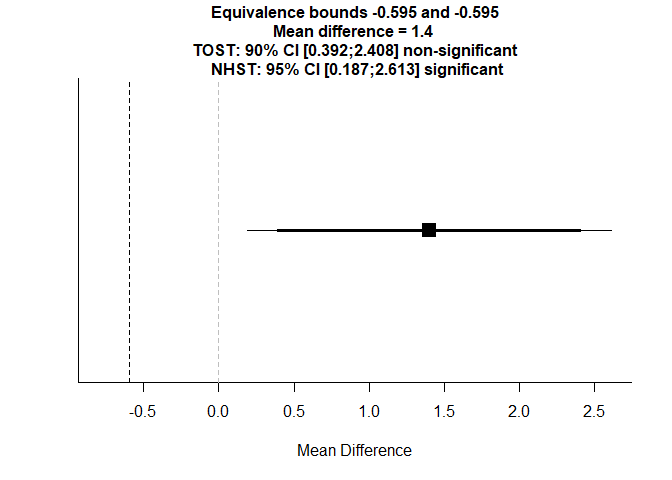
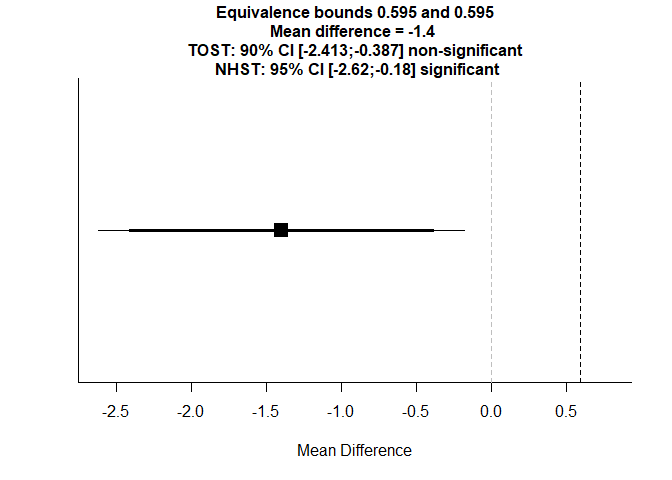
update tutorial 2

diff --git a/Advanced_EH_6126/Unit_2_Equivalance_Trials/Equivalance_trials.html b/Advanced_EH_6126/Unit_2_Equivalance_Trials/Equivalance_trials.html
@@ -433,7 +433,7 @@ $(document).ready(function () {
 <p>Because this effect of 2 is &gt; 1.96 (1.96 being the critical value we used the calculate the p-value if we want alpha = 0.05; see the purple sampling distribution), we would thus “reject the null hypothesis of 0 effect”.</p>
 <p>We can also see that zero falls (just barely) outside of the yellow 95% CI. This means that if we set the null to 2, rather than 0, then we would reject this new null if we actually observed a 0 effect, just like we reject a null of 0 when we observe a 2. One test is just the mirror image of the other. We will use the same idea when we get to equivalence tests below.</p>
 <p>So how should we interpret a CI centered on our observed effect? Many people think that an X% CI says that there is an X% chance that the “true” effect falls in the interval. This is incorrect, and reflects a Bayesian interpretation that is unwarranted here.</p>
-<p>Instead, an X% CI will contain the “true” effect X% of the time over many replications of the procedure that led to the CI. In other words, the CI is still a completely frequentist tool, and the best way to think of it is as a collection of statistical tests. You can also think of it as a “compatibility interval” - a collection of values that our observed data would be compatible with (at some pre-specified alpha) had the data indeed been generated by (any one of) those values. We will come back to Bayesian intervals, where can <em>can</em> conclude some % that the “truth” falls in our interval (given other assumptions), when we get to Bayesian statistics later in the module.</p>
+<p>Instead, an X% CI will contain the “true” effect X% of the time over many replications of the procedure that led to the CI. In other words, the CI is still a completely frequentist tool, and one way to think of it is as a collection of statistical tests. You can also think of it as a “compatibility interval” - a collection of values that our observed data would be compatible with (at some pre-specified alpha) had the data indeed been generated by (any one of) those values. We will come back to Bayesian intervals, where can <em>can</em> conclude some % that the “truth” falls in our interval (given other assumptions), when we get to Bayesian statistics later in the module.</p>
 </div>
 <div id="part-5-equivalence" class="section level2">
 <h2>Part 5: Equivalence</h2>
@@ -475,7 +475,7 @@ $(document).ready(function () {
 
   g2</code></pre>
[1 lines of base64/hex data omitted]
-<p>But we aren’t interesting in a two sided test of H0: z = 3 vs H_Alt: Z &lt; 3 or Z &gt; 3, but rather we want the one sided test of Z &gt;= 3 vs Z &lt; 3 - our non-inferiority test.</p>
+<p>But we aren’t interested in a two sided test of H0: z = 3 vs H_Alt: Z &lt; 3 or Z &gt; 3, but rather we want the one sided test of Z &gt;= 3 vs Z &lt; 3 - our non-inferiority test.</p>
 <pre class="r"><code>  g3 &lt;- ggplot(data_frame(x = c(-6 , 6)), aes(x = x)) + 
     stat_function(fun = dnorm, args = list(0, 1), 
                   geom = &quot;area&quot;, fill = viridis(1), alpha = 0.1) +
@@ -497,7 +497,7 @@ $(document).ready(function () {
                size = 1)
 
   g3</code></pre>
[2 lines of base64/hex data omitted]
 <p>As well as the one sided test of Z &lt;= -3 vs Z &gt; -3 - our non-superiority test.</p>
 <pre class="r"><code>  g4 &lt;- g3 +
     stat_function(fun = dnorm, args = list(-margin, 1), 
@@ -610,45 +610,45 @@ $(document).ready(function () {
 <div id="tost-for-the-primary-outcome-10-minutes" class="section level3">
 <h3>TOST for the primary outcome (10 minutes)</h3>
 <p>Next we want to use the TOSTER package to carry out our two one-sided tests that we will use to evaluate if fentanyl is non-inferior to morphine. This means that we will accept that it’s a little worse (e.g. is associated with higher pain scores), but not too much worse (not more than +0.36 SDs of pain worse - this is the margin).</p>
-<pre class="r"><code>  m1 &lt;- mean(filter(data, arm == &quot;Morphine&quot;)$c_painscore10, na.rm = TRUE)
-  m2 &lt;- mean(filter(data, arm == &quot;Fentanyl&quot;)$c_painscore10, na.rm = TRUE)
-  sd1 &lt;-  sd(filter(data, arm == &quot;Morphine&quot;)$c_painscore10, na.rm = TRUE)
-  sd2 &lt;-  sd(filter(data, arm == &quot;Fentanyl&quot;)$c_painscore10, na.rm = TRUE)
+<pre class="r"><code>  m2 &lt;- mean(filter(data, arm == &quot;Morphine&quot;)$c_painscore10, na.rm = TRUE)
+  m1 &lt;- mean(filter(data, arm == &quot;Fentanyl&quot;)$c_painscore10, na.rm = TRUE)
+  sd2 &lt;-  sd(filter(data, arm == &quot;Morphine&quot;)$c_painscore10, na.rm = TRUE)
+  sd1 &lt;-  sd(filter(data, arm == &quot;Fentanyl&quot;)$c_painscore10, na.rm = TRUE)
 
   TOSTtwo(
     m1 = m1, m2 = m2, sd1 = sd1, sd2 = sd2, n1 = 16, n2 = 15,
-    low_eqbound_d  = -0.36,
-    high_eqbound_d = -0.36,
+    low_eqbound_d  = 0.36,
+    high_eqbound_d = 0.36,
     alpha = 0.05,
     var.equal = FALSE,
     plot = TRUE
     )</code></pre>
[2 lines of base64/hex data omitted]
 <pre><code>## TOST results:
-## t-value lower bound: 3.36    p-value lower bound: 0.001
-## t-value upper bound: 3.36    p-value upper bound: 0.999
-## degrees of freedom : 28.91
+## t-value lower bound: -3.35   p-value lower bound: 0.999
+## t-value upper bound: -3.35   p-value upper bound: 0.001
+## degrees of freedom : 28.01
 ## 
 ## Equivalence bounds (Cohen&#39;s d):
-## low eqbound: -0.36 
-## high eqbound: -0.36
+## low eqbound: 0.36 
+## high eqbound: 0.36
 ## 
 ## Equivalence bounds (raw scores):
-## low eqbound: -0.5952 
-## high eqbound: -0.5952
+## low eqbound: 0.5952 
+## high eqbound: 0.5952
 ## 
 ## TOST confidence interval:
-## lower bound 90% CI: 0.392
-## upper bound 90% CI:  2.408
+## lower bound 90% CI: -2.413
+## upper bound 90% CI:  -0.387
 ## 
 ## NHST confidence interval:
-## lower bound 95% CI: 0.187
-## upper bound 95% CI:  2.613
+## lower bound 95% CI: -2.62
+## upper bound 95% CI:  -0.18
 ## 
 ## Equivalence Test Result:
-## The equivalence test was non-significant, t(28.91) = 3.364, p = 0.999, given equivalence bounds of -0.595 and -0.595 (on a raw scale) and an alpha of 0.05.
+## The equivalence test was non-significant, t(28.01) = -3.351, p = 0.999, given equivalence bounds of 0.595 and 0.595 (on a raw scale) and an alpha of 0.05.
 ## Null Hypothesis Test Result:
-## The null hypothesis test was significant, t(28.91) = 2.361, p = 0.0252, given an alpha of 0.05.
+## The null hypothesis test was significant, t(28.01) = -2.352, p = 0.026, given an alpha of 0.05.
 ## Based on the equivalence test and the null-hypothesis test combined, we can conclude that the observed effect is statistically different from zero and statistically not equivalent to zero.</code></pre>
 </div>
 </div>
@@ -713,8 +713,8 @@ $(document).ready(function () {
 <p>And finally, a table of results.</p>
 <pre class="r"><code># Take the long pain data, convert to wide, keep mean, n, sd by arm and time
   pain_df_wide &lt;- spread(pain_df, type, pain) %&gt;% 
-    select(-ll, -ul, -median, -upperq, -lowerq, -se) %&gt;%
-    select(arm, time, n, mean, sd)
+    dplyr::select(-ll, -ul, -median, -upperq, -lowerq, -se) %&gt;%
+    dplyr::select(arm, time, n, mean, sd)
 
 # Split the data by arm and cbind into dataset. 
   table_data &lt;- cbind(
@@ -722,11 +722,11 @@ $(document).ready(function () {
     filter(pain_df_wide, arm == &quot;Morphine&quot;)
   ) %&gt;% 
     ungroup() %&gt;%
-    select(-arm, -arm1, -time1)
+    dplyr::select(-arm, -arm1, -time1)
   
   table_data &lt;- full_join(
     table_data, 
-    select(ttests_95, estimate, conf.low, conf.high, time), 
+    dplyr::select(ttests_95, estimate, conf.low, conf.high, time), 
     by = &quot;time&quot;
   )
   
@@ -736,7 +736,7 @@ $(document).ready(function () {
   table_data &lt;- mutate(table_data, effect = paste0(
     estimate, &quot; (&quot;, conf.low, &quot; to &quot;, conf.high, &quot;)&quot;
   )) %&gt;%
-    select(-estimate, -conf.low, -conf.high)
+    dplyr::select(-estimate, -conf.low, -conf.high)
   
   knitr::kable(
     table_data, 

diff --git a/Advanced_EH_6126/Unit_2_Equivalance_Trials/Equivalance_trials.md b/Advanced_EH_6126/Unit_2_Equivalance_Trials/Equivalance_trials.md
@@ -81,7 +81,7 @@ We can also see that zero falls (just barely) outside of the yellow 95% CI. This
 
 So how should we interpret a CI centered on our observed effect? Many people think that an X% CI says that there is an X% chance that the "true" effect falls in the interval. This is incorrect, and reflects a Bayesian interpretation that is unwarranted here. 
 
-Instead, an X% CI will contain the "true" effect X% of the time over many replications of the procedure that led to the CI. In other words, the CI is still a completely frequentist tool, and the best way to think of it is as a collection of statistical tests. You can also think of it as a "compatibility interval" - a collection of values that our observed data would be compatible with (at some pre-specified alpha) had the data indeed been generated by (any one of) those values. We will come back to Bayesian intervals, where can *can* conclude some % that the "truth" falls in our interval (given other assumptions), when we get to Bayesian statistics later in the module. 
+Instead, an X% CI will contain the "true" effect X% of the time over many replications of the procedure that led to the CI. In other words, the CI is still a completely frequentist tool, and one way to think of it is as a collection of statistical tests. You can also think of it as a "compatibility interval" - a collection of values that our observed data would be compatible with (at some pre-specified alpha) had the data indeed been generated by (any one of) those values. We will come back to Bayesian intervals, where can *can* conclude some % that the "truth" falls in our interval (given other assumptions), when we get to Bayesian statistics later in the module. 
 
 ## Part 5: Equivalence
 
@@ -140,7 +140,7 @@ Now let's slide the CI so that it centers on our non-inferiority margin (= 3 in 
 
 ![](Equivalance_trials_files/figure-html/shift-1.png)<!-- -->
 
-But we aren't interesting in a two sided test of H0: z = 3 vs H_Alt: Z < 3 or Z > 3, but rather we want the one sided test of Z >= 3 vs Z < 3 - our non-inferiority test.
+But we aren't interested in a two sided test of H0: z = 3 vs H_Alt: Z < 3 or Z > 3, but rather we want the one sided test of Z >= 3 vs Z < 3 - our non-inferiority test.
 
 
 ```r
@@ -168,6 +168,7 @@ But we aren't interesting in a two sided test of H0: z = 3 vs H_Alt: Z < 3 or Z 
 ```
 
 ![](Equivalance_trials_files/figure-html/non_inferiority-1.png)<!-- -->
+Note: the right side of the 97.5% one-sided CI technically goes out to infinity, which is why the interval is asymetric. 
 
 As well as the one sided test of Z <= -3 vs Z > -3 - our non-superiority test.
 
@@ -342,15 +343,15 @@ Next we want to use the TOSTER package to carry out our two one-sided tests that
 
 
 ```r
-  m1 <- mean(filter(data, arm == "Morphine")$c_painscore10, na.rm = TRUE)
-  m2 <- mean(filter(data, arm == "Fentanyl")$c_painscore10, na.rm = TRUE)
-  sd1 <-  sd(filter(data, arm == "Morphine")$c_painscore10, na.rm = TRUE)
-  sd2 <-  sd(filter(data, arm == "Fentanyl")$c_painscore10, na.rm = TRUE)
+  m2 <- mean(filter(data, arm == "Morphine")$c_painscore10, na.rm = TRUE)
+  m1 <- mean(filter(data, arm == "Fentanyl")$c_painscore10, na.rm = TRUE)
+  sd2 <-  sd(filter(data, arm == "Morphine")$c_painscore10, na.rm = TRUE)
+  sd1 <-  sd(filter(data, arm == "Fentanyl")$c_painscore10, na.rm = TRUE)
 
   TOSTtwo(
     m1 = m1, m2 = m2, sd1 = sd1, sd2 = sd2, n1 = 16, n2 = 15,
-    low_eqbound_d  = -0.36,
-    high_eqbound_d = -0.36,
+    low_eqbound_d  = 0.36,
+    high_eqbound_d = 0.36,
     alpha = 0.05,
     var.equal = FALSE,
     plot = TRUE
@@ -361,30 +362,30 @@ Next we want to use the TOSTER package to carry out our two one-sided tests that
 
 ```
 ## TOST results:
-## t-value lower bound: 3.36 	p-value lower bound: 0.001
-## t-value upper bound: 3.36 	p-value upper bound: 0.999
-## degrees of freedom : 28.91
+## t-value lower bound: -3.35 	p-value lower bound: 0.999
+## t-value upper bound: -3.35 	p-value upper bound: 0.001
+## degrees of freedom : 28.01
 ## 
 ## Equivalence bounds (Cohen's d):
-## low eqbound: -0.36 
-## high eqbound: -0.36
+## low eqbound: 0.36 
+## high eqbound: 0.36
 ## 
 ## Equivalence bounds (raw scores):
-## low eqbound: -0.5952 
-## high eqbound: -0.5952
+## low eqbound: 0.5952 
+## high eqbound: 0.5952
 ## 
 ## TOST confidence interval:
-## lower bound 90% CI: 0.392
-## upper bound 90% CI:  2.408
+## lower bound 90% CI: -2.413
+## upper bound 90% CI:  -0.387
 ## 
 ## NHST confidence interval:
-## lower bound 95% CI: 0.187
-## upper bound 95% CI:  2.613
+## lower bound 95% CI: -2.62
+## upper bound 95% CI:  -0.18
 ## 
 ## Equivalence Test Result:
-## The equivalence test was non-significant, t(28.91) = 3.364, p = 0.999, given equivalence bounds of -0.595 and -0.595 (on a raw scale) and an alpha of 0.05.
+## The equivalence test was non-significant, t(28.01) = -3.351, p = 0.999, given equivalence bounds of 0.595 and 0.595 (on a raw scale) and an alpha of 0.05.
 ## Null Hypothesis Test Result:
-## The null hypothesis test was significant, t(28.91) = 2.361, p = 0.0252, given an alpha of 0.05.
+## The null hypothesis test was significant, t(28.01) = -2.352, p = 0.026, given an alpha of 0.05.
 ## Based on the equivalence test and the null-hypothesis test combined, we can conclude that the observed effect is statistically different from zero and statistically not equivalent to zero.
 ```
 
@@ -465,8 +466,8 @@ And finally, a table of results.
 ```r
 # Take the long pain data, convert to wide, keep mean, n, sd by arm and time
   pain_df_wide <- spread(pain_df, type, pain) %>% 
-    select(-ll, -ul, -median, -upperq, -lowerq, -se) %>%
-    select(arm, time, n, mean, sd)
+    dplyr::select(-ll, -ul, -median, -upperq, -lowerq, -se) %>%
+    dplyr::select(arm, time, n, mean, sd)
 
 # Split the data by arm and cbind into dataset. 
   table_data <- cbind(
@@ -474,11 +475,11 @@ And finally, a table of results.
     filter(pain_df_wide, arm == "Morphine")
   ) %>% 
     ungroup() %>%
-    select(-arm, -arm1, -time1)
+    dplyr::select(-arm, -arm1, -time1)
   
   table_data <- full_join(
     table_data, 
-    select(ttests_95, estimate, conf.low, conf.high, time), 
+    dplyr::select(ttests_95, estimate, conf.low, conf.high, time), 
     by = "time"
   )
   
@@ -488,7 +489,7 @@ And finally, a table of results.
   table_data <- mutate(table_data, effect = paste0(
     estimate, " (", conf.low, " to ", conf.high, ")"
   )) %>%
-    select(-estimate, -conf.low, -conf.high)
+    dplyr::select(-estimate, -conf.low, -conf.high)
   
   knitr::kable(
     table_data, 
